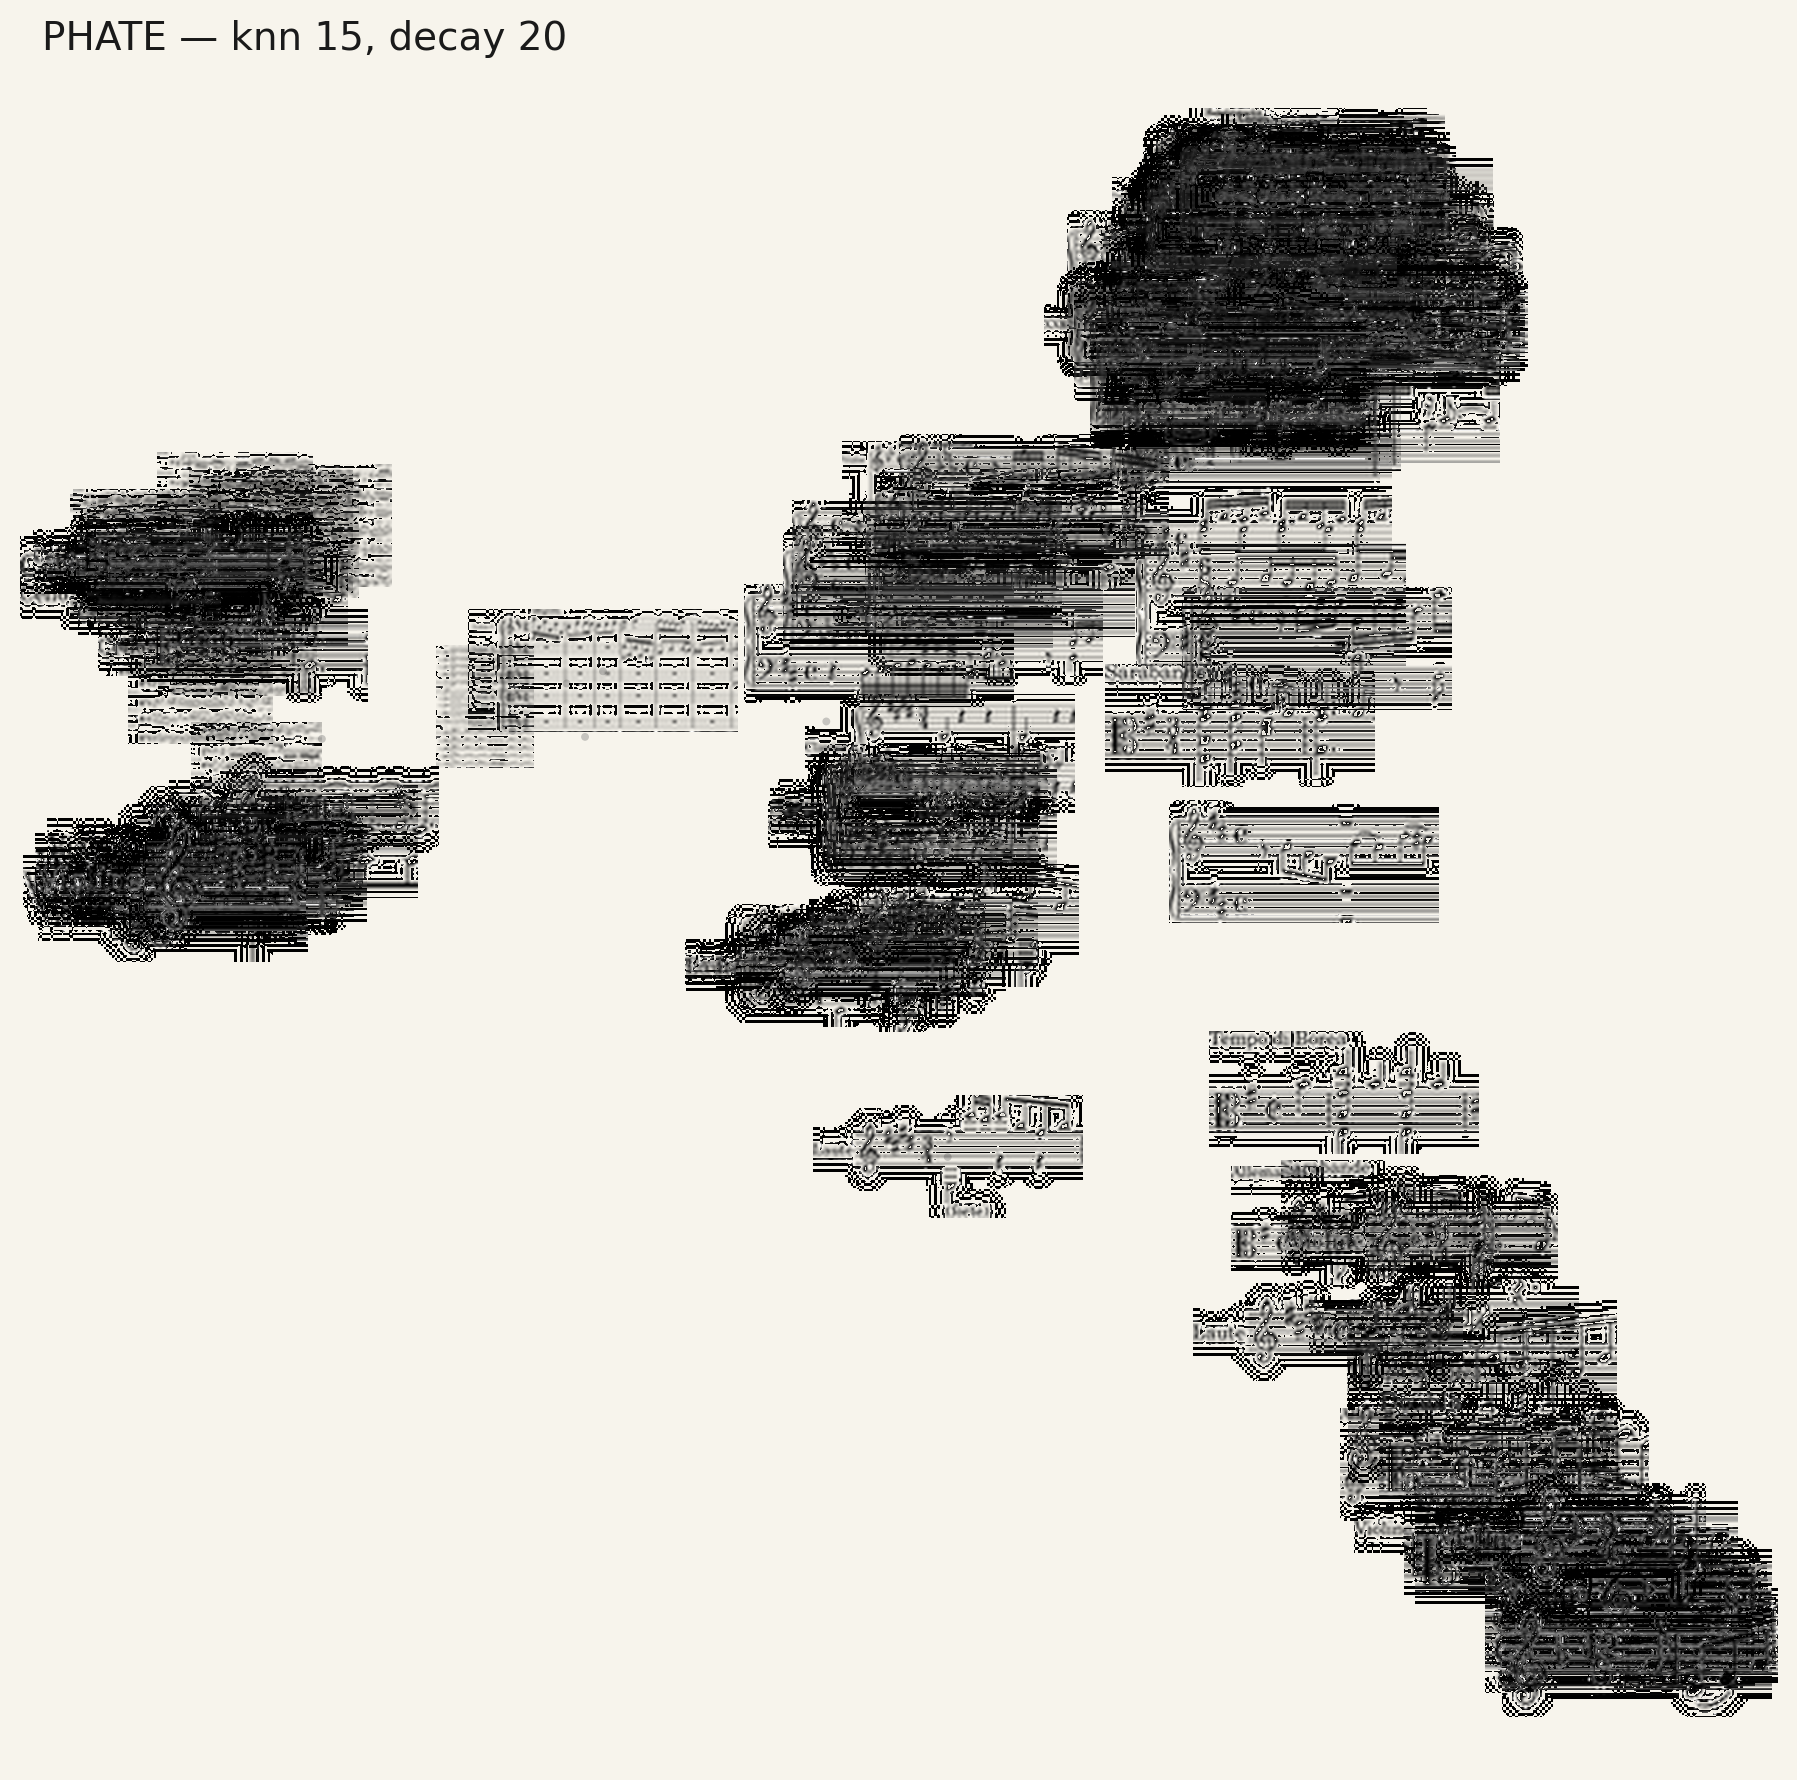
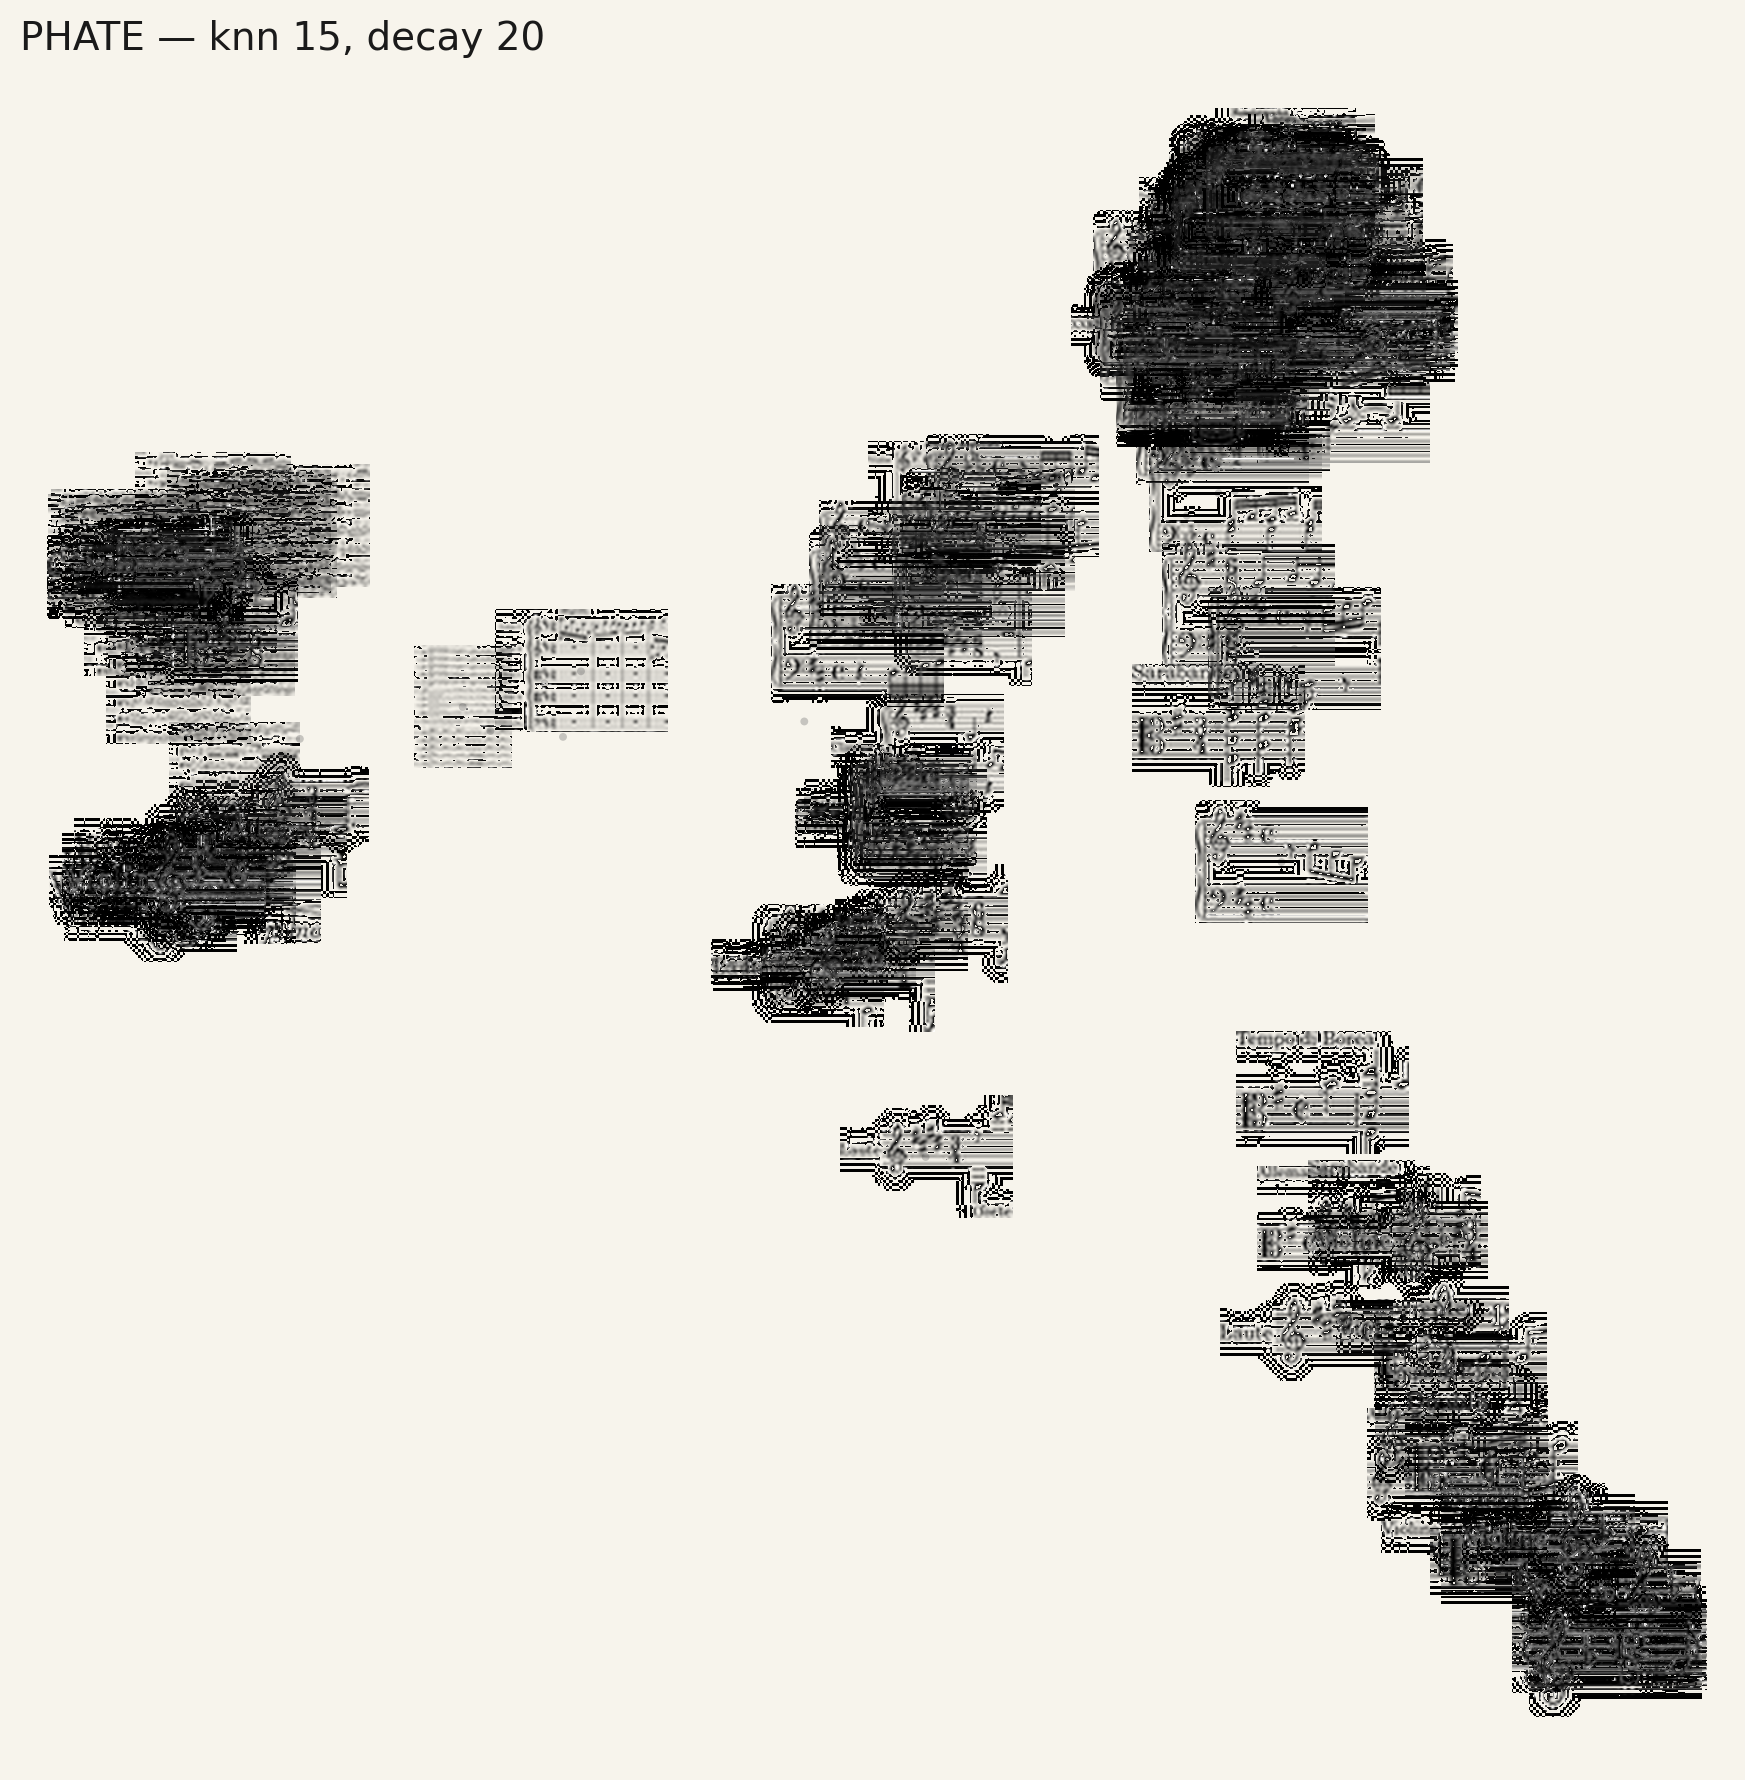
06_per_projection: halve PCA thumbnail size + tighter aspect crop
PCA's top two components carry 38 % of the variance and pack 121 of the
179 works into a tight Bach harpsichord cluster. The default
thumb_px=44 turned that region of the per-projection PCA figure into
a featureless black smudge. Halve to 22 px just for that panel; the
t-SNE/UMAP/PHATE panels keep the larger size since they spread the
cloud more.

Also tightens max_aspect from the default 2.2 to 1.4 so each thumbnail
shows the opening fragment of the piece rather than a strip that
spreads horizontally across neighbors.

diff --git a/scripts/06_per_projection.py b/scripts/06_per_projection.py
@@ -66,10 +66,15 @@ def main() -> int:
         xs = sub_df[xc].values
         ys = sub_df[yc].values
         if use_thumbs:
+            # PCA concentrates 38% of variance in two dims and packs the
+            # Bach harpsichord cluster into a tiny region — same-sized
+            # thumbs that work in t-SNE/UMAP/PHATE turn that corner into
+            # a black smudge. Halve the thumb size for PCA.
+            panel_px = thumb_px if label != "PCA" else max(20, thumb_px // 2)
             ax.scatter(xs, ys, s=8, color=SUBTLE, alpha=0.35,
                        edgecolor="none", zorder=1)
             for i, work_id in enumerate(sub_df["work_id"].values):
-                thumb = load_thumb(work_id, thumb_px)
+                thumb = load_thumb(work_id, panel_px, max_aspect=1.4)
                 if thumb.shape[0] <= 1:
                     continue
                 oi = OffsetImage(thumb, zoom=1.0, interpolation="lanczos")
